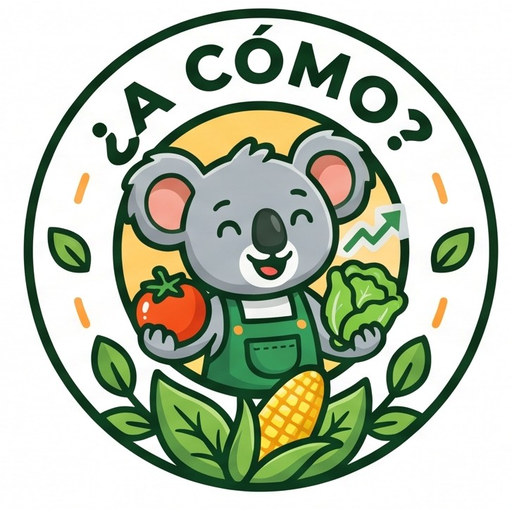
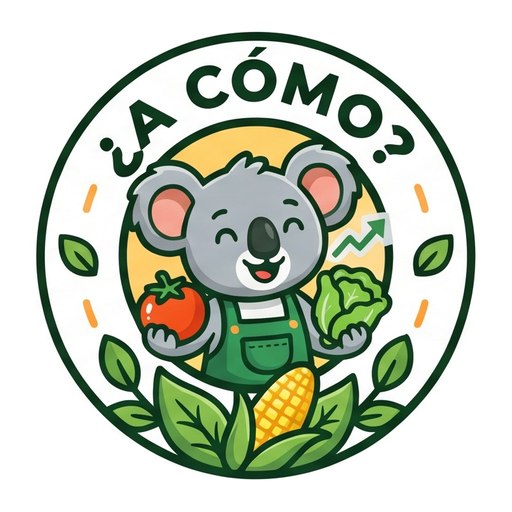
Ícono: insignia completa dentro de la zona segura del ícono adaptativo (versión 3)

diff --git a/diseno/generar_iconos.py b/diseno/generar_iconos.py
@@ -4,9 +4,9 @@
     .venv/Scripts/python diseno/generar_iconos.py
 
 Salidas:
-  * android/.../mipmap-*/ic_launcher_foreground.png  capa frontal del ícono adaptativo (koala recortado en círculo)
+  * android/.../mipmap-*/ic_launcher_foreground.png  capa frontal del ícono adaptativo (insignia completa)
   * android/.../drawable-nodpi/logo_koala.png        logo pequeño para usar dentro de la app
-  * diseno/play_store_512.png                        ícono de alta resolución para Google Play (logo completo)
+  * diseno/play_store_512.png                        ícono de alta resolución para Google Play (insignia completa)
 """
 
 from pathlib import Path
@@ -21,10 +21,16 @@ RES = RAIZ / "android" / "app" / "src" / "main" / "res"
 CENTRO = (370, 420)
 RADIO = 235
 
-# Ícono adaptativo: lienzo de 108 dp; el launcher muestra aprox. el círculo central de 72 dp.
+# Insignia completa (aro verde con "¿A CÓMO?"): círculo exterior en píxeles del logo original.
+CENTRO_INSIGNIA = (370, 353)
+RADIO_INSIGNIA = 346
+
+# Ícono adaptativo: lienzo de 108 dp; el launcher muestra 72 dp y recorta con la forma del teléfono
+# (círculo, cuadrado redondeado...). Solo el círculo central de 66 dp está garantizado: la insignia
+# va justo de ese tamaño para que el aro nunca se corte.
 DENSIDADES = {"mdpi": 1.0, "hdpi": 1.5, "xhdpi": 2.0, "xxhdpi": 3.0, "xxxhdpi": 4.0}
 LIENZO_DP = 108
-CONTENIDO_DP = 72
+INSIGNIA_DP = 66
 
 
 def koala_circular(tamano: int) -> Image.Image:
@@ -39,13 +45,26 @@ def koala_circular(tamano: int) -> Image.Image:
     return recorte
 
 
+def insignia(tamano: int) -> Image.Image:
+    """Logo completo recortado al círculo exterior, con transparencia fuera del aro."""
+    logo = Image.open(LOGO).convert("RGBA")
+    x, y = CENTRO_INSIGNIA
+    r = RADIO_INSIGNIA
+    recorte = logo.crop((x - r, y - r, x + r, y + r)).resize((tamano, tamano), Image.LANCZOS)
+    grande = Image.new("L", (tamano * 4, tamano * 4), 0)
+    ImageDraw.Draw(grande).ellipse((0, 0, tamano * 4 - 1, tamano * 4 - 1), fill=255)
+    recorte.putalpha(grande.resize((tamano, tamano), Image.LANCZOS))
+    return recorte
+
+
 def main() -> None:
     for nombre, escala in DENSIDADES.items():
         lienzo = round(LIENZO_DP * escala)
-        contenido = round(CONTENIDO_DP * escala)
-        img = Image.new("RGBA", (lienzo, lienzo), (0, 0, 0, 0))
+        contenido = round(INSIGNIA_DP * escala)
+        # Fondo blanco opaco en la capa frontal: así el launcher no tiñe el espacio alrededor del aro.
+        img = Image.new("RGBA", (lienzo, lienzo), (255, 255, 255, 255))
         offset = (lienzo - contenido) // 2
-        img.alpha_composite(koala_circular(contenido), (offset, offset))
+        img.alpha_composite(insignia(contenido), (offset, offset))
         destino = RES / f"mipmap-{nombre}" / "ic_launcher_foreground.png"
         destino.parent.mkdir(parents=True, exist_ok=True)
         img.save(destino, optimize=True)
@@ -56,12 +75,11 @@ def main() -> None:
     koala_circular(192).save(nodpi / "logo_koala.png", optimize=True)
     print((nodpi / "logo_koala.png").relative_to(RAIZ))
 
-    # Google Play pide 512x512 PNG; se usa el logo completo sobre fondo blanco.
-    logo = Image.open(LOGO).convert("RGB")
-    lado = max(logo.size)
-    cuadrado = Image.new("RGB", (lado, lado), "white")
-    cuadrado.paste(logo, ((lado - logo.width) // 2, (lado - logo.height) // 2))
-    cuadrado.resize((512, 512), Image.LANCZOS).save(RAIZ / "diseno" / "play_store_512.png", optimize=True)
+    # Google Play pide 512x512 PNG y lo muestra con esquinas redondeadas: insignia al 88 % con margen blanco.
+    play = Image.new("RGBA", (512, 512), (255, 255, 255, 255))
+    lado = round(512 * 0.88)
+    play.alpha_composite(insignia(lado), ((512 - lado) // 2, (512 - lado) // 2))
+    play.convert("RGB").save(RAIZ / "diseno" / "play_store_512.png", optimize=True)
     print("diseno/play_store_512.png")
 
 
